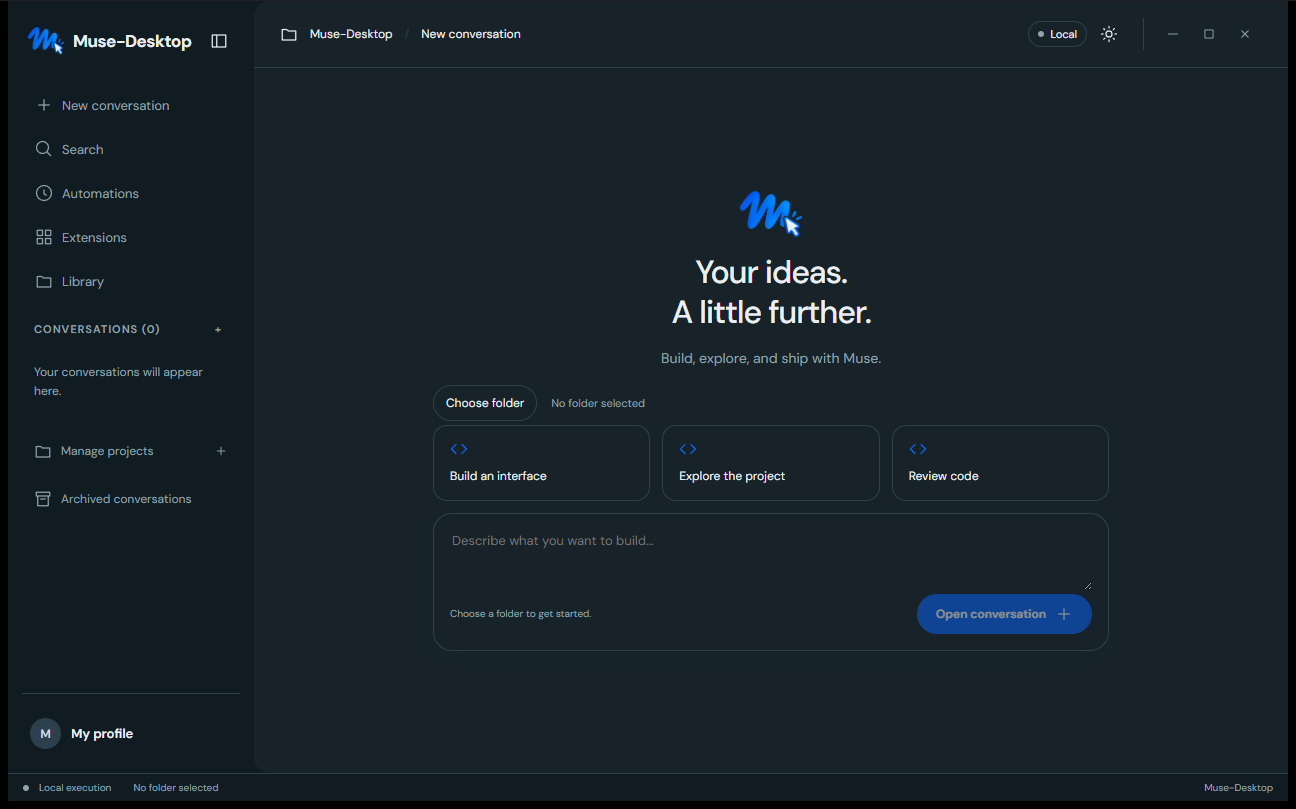
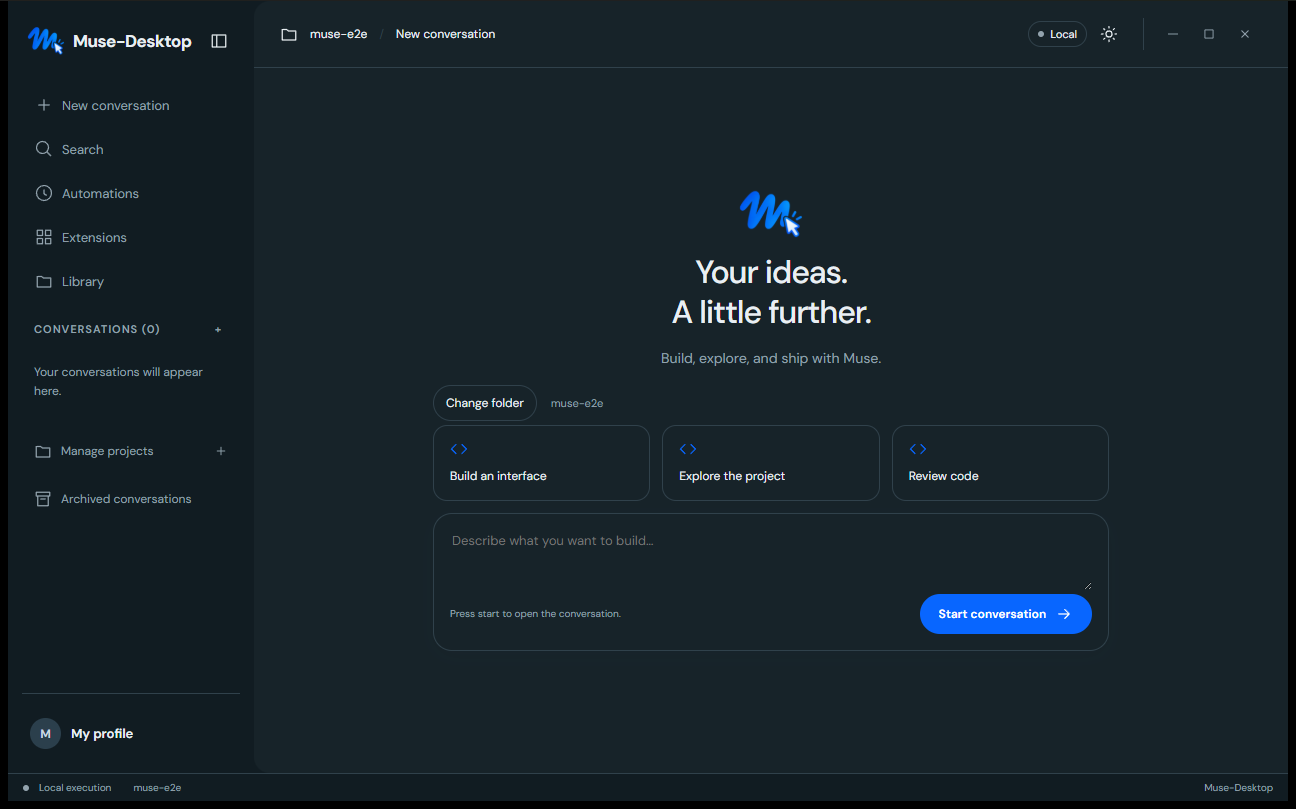
ui: start conversation sends the first message right away
- Welcome screen button renamed "Start conversation" with arrow icon
- Starting now creates the session AND dispatches the typed message
  immediately (no prefill-then-send two-step)
- Enter sends from the welcome textarea, Shift+Enter adds a newline
- Hint text reflects the direct-send behavior
- README screenshot refreshed (clean welcome screen)

diff --git a/src/components/EmptySessionScreen.tsx b/src/components/EmptySessionScreen.tsx
@@ -7,8 +7,8 @@ interface Props {
   /** Default folder for the new thread; null until the user picks one. */
   workspace: string | null;
   onPickWorkspace: (path: string) => void;
-  onNewSession: () => Promise<string | null>;
-  onDraft?: (text: string) => void;
+  /** Creates the session and sends the first message right away. */
+  onStart: (draft: string) => Promise<boolean>;
   backendMissing?: boolean;
   /** US-33: explicit sidecar failure rendered instead of the blank screen. */
   sidecarError?: ReactNode | null;
@@ -17,13 +17,13 @@ interface Props {
 /**
  * Empty session screen shown when no session is active. Codex-like: the
  * folder is chosen here, per thread, at creation time — there is no
- * global folder lock in the sidebar.
+ * global folder lock in the sidebar. Starting sends the typed message
+ * immediately; nothing waits in the composer.
  */
 export function EmptySessionScreen({
   workspace,
   onPickWorkspace,
-  onNewSession,
-  onDraft,
+  onStart,
   backendMissing,
   sidecarError,
 }: Props) {
@@ -42,13 +42,13 @@ export function EmptySessionScreen({
     }
   }, [draft]);
   const [starting, setStarting] = useState(false);
+  const canStart = workspace !== null && !backendMissing && !starting;
   async function start() {
-    if (!workspace || backendMissing || starting) return;
+    if (!canStart) return;
     setStarting(true);
     try {
-      const id = await onNewSession();
-      if (id !== null) {
-        onDraft?.(draft);
+      const sent = await onStart(draft);
+      if (sent) {
         try { sessionStorage.removeItem("muse-desktop.welcome-draft"); } catch { /* Best effort. */ }
       }
     } finally {
@@ -98,22 +98,30 @@ export function EmptySessionScreen({
           placeholder="Describe what you want to build…"
           value={draft}
           onChange={(e) => setDraft(e.target.value)}
+          onKeyDown={(e) => {
+            if (e.key === "Enter" && !e.shiftKey && !e.nativeEvent.isComposing) {
+              e.preventDefault();
+              void start();
+            }
+          }}
         />
         <div>
           <small>
             {backendMissing
               ? "Available in the desktop app"
               : workspace
-                ? "Your draft will be kept in the conversation."
+                ? draft.trim() === ""
+                  ? "Press start to open the conversation."
+                  : "Your message is sent as soon as you start."
                 : "Choose a folder to get started."}
           </small>
           <button
             className="primary"
             onClick={() => void start()}
-            disabled={!workspace || backendMissing || starting}
+            disabled={!canStart}
           >
-            {starting ? "Opening…" : "Open conversation"}
-            <Icon name="plus" />
+            {starting ? "Starting…" : "Start conversation"}
+            <Icon name="arrow-right" />
           </button>
         </div>
       </div>

diff --git a/src/App.tsx b/src/App.tsx
@@ -169,7 +169,6 @@ export default function App() {
   const [workPanel, setWorkPanel] = useState<
     "artifacts" | "browser" | "memory" | "tools" | null
   >(null);
-  const [starterDraft, setStarterDraft] = useState<string | null>(null);
   const [search, setSearch] = useState("");
   const [searchOpen, setSearchOpen] = useState(false);
   const [searchIndex, setSearchIndex] = useState(0);
@@ -195,7 +194,6 @@ export default function App() {
     setPage(next);
   };
   const newTask = () => {
-    setStarterDraft(null);
     openPage("task");
     setActive(null);
   };
@@ -219,7 +217,6 @@ export default function App() {
         event.preventDefault();
         setPage("task");
         setSettingsOpen(false);
-        setStarterDraft(null);
         setActive(null);
       }
     };
@@ -717,8 +714,12 @@ export default function App() {
               <EmptySessionScreen
                 workspace={workspace}
                 onPickWorkspace={setWorkspace}
-                onNewSession={startSession}
-                onDraft={setStarterDraft}
+                onStart={async (draft) => {
+                  const id = await startSession();
+                  if (id === null || draft.trim() === "") return id !== null;
+                  await sendInput(id, draft);
+                  return true;
+                }}
                 backendMissing={backendMissing}
                 sidecarError={sidecarPanel}
               />
@@ -814,11 +815,8 @@ export default function App() {
                     workspace={active.workspace}
                     onSend={(text) => void sendInput(active.session_id, text)}
                     onCancel={() => void cancelSession(active.session_id)}
-                    prefill={prefill ?? starterDraft}
-                    onPrefillConsumed={() => {
-                      clearPrefill();
-                      setStarterDraft(null);
-                    }}
+                    prefill={prefill}
+                    onPrefillConsumed={clearPrefill}
                     memories={memories}
                     memoryInsert={memoryInsert}
                     onMemoryInsertConsumed={() => setMemoryInsert(null)}

diff --git a/src/components/Icon.tsx b/src/components/Icon.tsx
@@ -16,6 +16,7 @@ const paths = {
     "M2 12h20M12 2c7 6 7 14 0 20-7-6-7-14 0-20M22 12a10 10 0 1 1-20 0 10 10 0 0 1 20 0",
   code: "m8 6-6 6 6 6m8-12 6 6-6 6",
   sun: "M12 2v2M12 20v2M2 12h2M20 12h2M4.93 4.93l1.42 1.42M17.65 17.65l1.42 1.42M4.93 19.07l1.42-1.42M17.65 6.35l1.42-1.42M16 12a4 4 0 1 1-8 0 4 4 0 0 1 8 0",
+  "arrow-right": "M5 12h14M13 6l6 6-6 6",
 };
 export function Icon({ name }: { name: keyof typeof paths }) {
   return (
